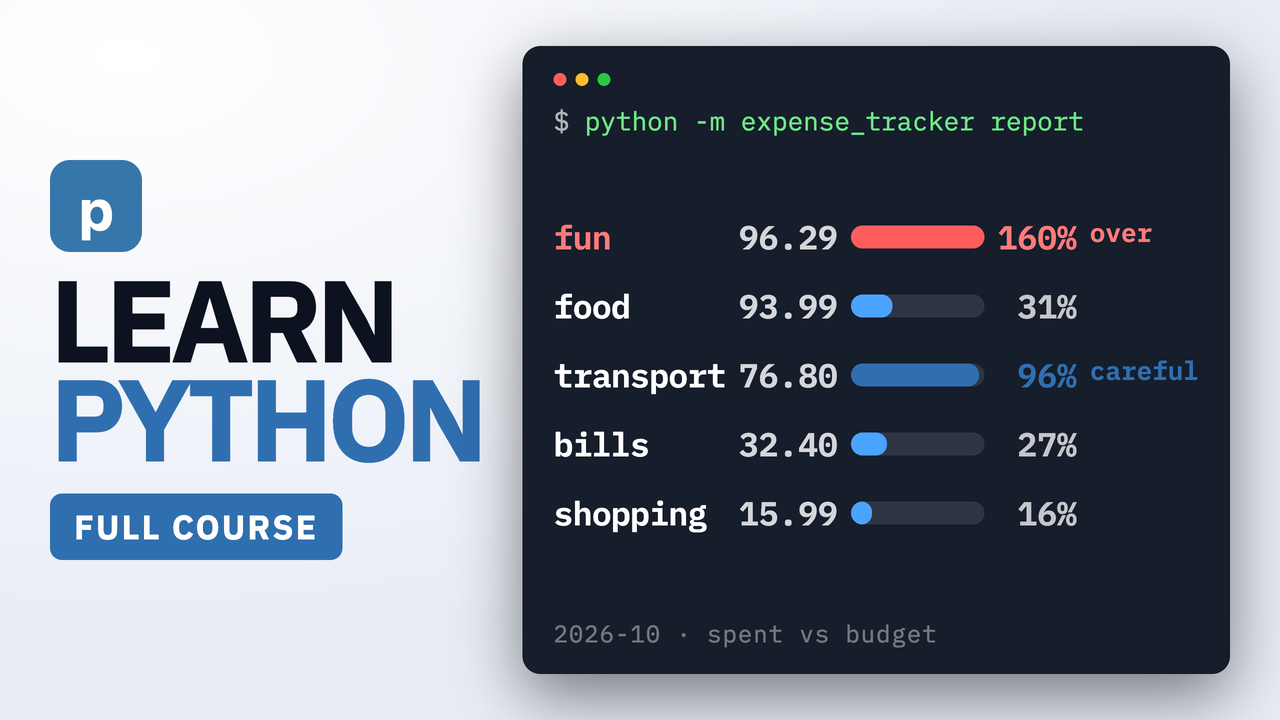
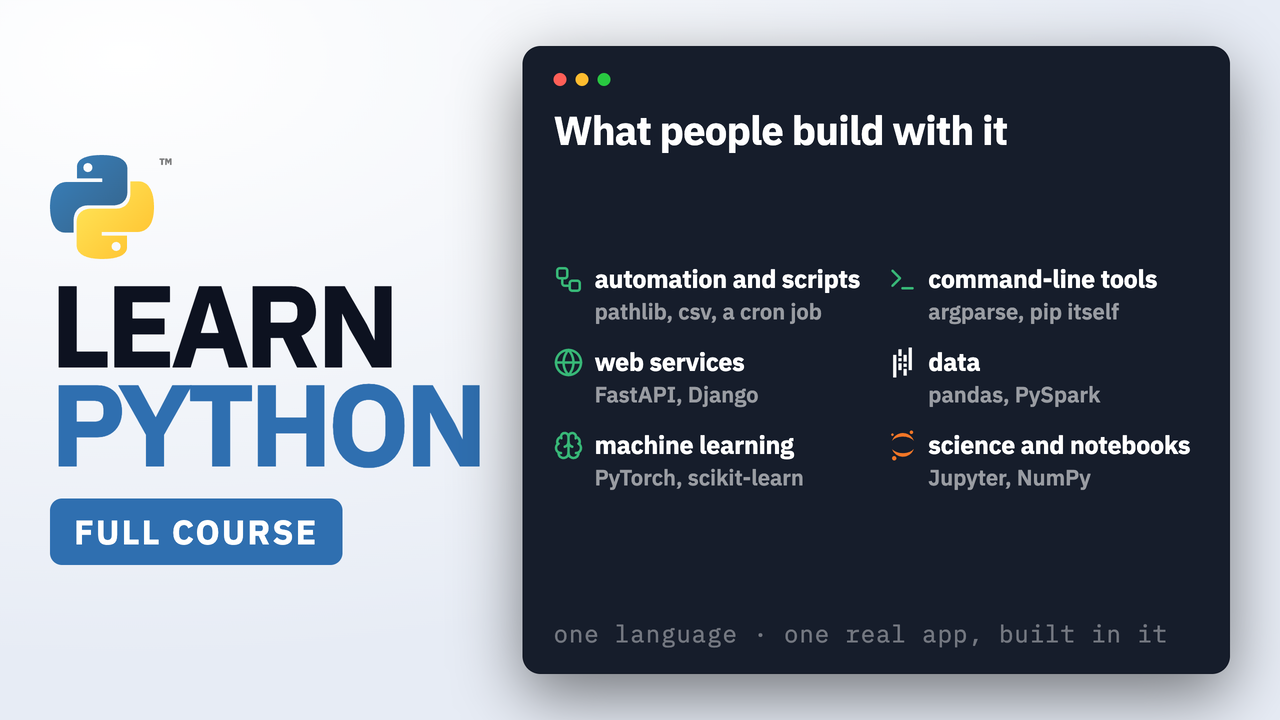
update

diff --git a/output/thumbnails/README.md b/output/thumbnails/README.md
@@ -4,12 +4,86 @@
 A copy of `film-dark.png`. Rebuild any variant with:
 
 ```sh
-npm run thumb:film -- --theme dark --rows fun,food,transport,bills,shopping \
-  --out output/thumbnails/film-dark.png
+npm run thumb:film -- --theme dark --source uses --mark logo --out output/thumbnails/film-dark.png
 ```
 
 Variants kept for comparison: `film-dark.png` (shipped), `film-navy.png`,
-`film-light.png` (stands out in a dark feed, but blue reads softer than yellow).
+`film-light.png` (stands out in a dark feed, but blue reads softer than yellow),
+`film-glyph.png` (the permission-free mark, below), `film-repl.png` and
+`film-report.png` (the other sources, below).
+
+## The mark: the real Python logo, with its TM
+
+The cover carries the genuine PSF two-snake logo, vendored unaltered at
+[`public/vendor/python-logo-notext.svg`](../../public/vendor/python-logo-notext.svg) and
+accompanied by the ™ the PSF's policy asks for (theme-aware, so it is actually visible on the
+light variant too).
+
+**This is a trademark question, and it is not fully settled by anything in this repo.** The PSF
+Trademark Usage Policy allows non-commercial promotion of Python and nominative use — "stating
+accurately that software is written in the Python programming language … is always allowed" —
+but it also says "any other commercial uses require prior written permission from PSF."
+
+A monetised YouTube channel is a commercial use. So:
+
+- The logo here is unaltered, carries its ™, and is used nominatively to name the language the
+  course teaches. The course's identity is the GraphL wordmark and the FULL COURSE badge, and
+  the cover does not suggest the PSF produced or endorsed it.
+- **If the video is monetised, ask the PSF Trademarks Committee first.** The full reasoning and
+  the exact policy quotations are in
+  [`public/vendor/NOTICE-python-logo.txt`](../../public/vendor/NOTICE-python-logo.txt).
+- If permission is not sought or not granted, rebuild with the repo's own mark:
+
+  ```sh
+  npm run thumb:film -- --mark glyph
+  ```
+
+  which draws `>>>`, the REPL prompt — the most recognisable thing on a Python screen, owned by
+  nobody. That is `film-glyph.png`, kept ready for exactly this reason.
+
+Note that the sister repos answer differently, and correctly so. The data-science repo carries
+the real **pandas** logo outright, because pandas publishes it under BSD-3-Clause — a copyright
+licence that grants the use. The Spark repo carries **no** project mark at all, because the ASF
+permits a third-party project logo essentially only as a hyperlink to its own site. Copyright
+and trademark are different questions and every project answers for itself; do not copy any of
+these three decisions across without reading that project's policy.
+
+## The three sources, all real
+
+`--source uses` (default, shipped) renders the course's own scene. The six use cases, their
+subtitles and their icons are read out of `src/scenes/intro/index.ts` through the same
+`scripts/registry.mjs` the content checks use — so the cover shows **the course's list, not a
+retyped one**: edit the scene and the thumbnail follows. If that scene ever stops having a
+group with id `uses`, the render fails rather than falling back to something invented.
+
+The icons are the app's too: lucide's geometry (ISC) read straight out of
+`node_modules/lucide-react` for `workflow`, `terminal`, `globe` and `brain`, and graphl-flow's
+own bundled brand paths for `pandas` and `jupyter`. Those two keep their brand colours — white
+and Jupyter orange — exactly as the scene renders them; the rest take the group's `store` tone.
+
+This card has **no `$` command line**, because there is no command behind it. An earlier draft
+had one, which would have been the first invented thing on any of these three covers.
+
+`--source repl` renders `spine/hold/02-decimal/session.txt` — §3.2, the `0.1 + 0.2` float
+surprise and the `Decimal` that fixes it. It is the stronger *hook* of the two at feed size: a
+long red `0.30000000000000004` reads at 168px where six small rows become texture. Kept as
+`film-repl.png` if the use-case grid underperforms.
+
+One line of that session is left out: `Decimal(0.1)` prints 55 digits, which cannot be set in
+poster type without shrinking the card to nothing. Lines whose output exceeds `MAX_OUT` are
+**omitted rather than truncated**, so nothing shown is ever altered — the cover just shows fewer
+steps than the session ran. If the float surprise or its fix were ever among the omitted lines,
+the render fails instead of quietly dropping the point of the card.
+
+`--source report` renders `spine/ship/04-the-finished-app/session.txt`: the real
+`expense-tracker report`, spent against budget per category, with `fun` 160% over.
+
+## The colours are the engine's
+
+The use-case icons, the REPL's prompts, the surprise and the fix all take their colours from
+`@graphlearning/graphl-flow`'s own tone palette — the same six the scenes use — copied into
+`TONE` in `scripts/thumb-film.mjs`: `store` `#37b877` for the prompts and the correct answer,
+`consume` `#f0656f` for the float result, `neutral` for echoed output.
 
 ## Why not `npm run thumb` (the shell's `graphl-thumb`)
 
@@ -18,6 +92,9 @@ That template is a **per-course** poster: 58% of a scene plus a text panel. A sc
 YouTube mobile feed actually renders — which is the only size that decides a thumbnail.
 `scripts/thumb-film.mjs` uses poster grammar instead: few elements, enormous type, one
 focal object. Every change was checked by downscaling to 168px, not by looking at 1280px.
+At that size the shipped cover keeps LEARN / PYTHON, the logo, the badge and "What people build
+with it"; the six rows below become texture. That is the trade this cover makes — breadth over a
+single hook — and `film-repl.png` is the alternative if the grid underperforms.
 
 ## Why not the generated samples
 
@@ -37,8 +114,9 @@ weights retention far above CTR.
 
 ## Where the numbers come from
 
-`thumb-film.mjs` parses the report out of `spine/ship/04-the-finished-app/session.txt` —
-the same replayed output the scenes use — and fails if a requested row is not in it. So the
+`thumb-film.mjs` parses everything out of a spine `session.txt` — the same replayed output the
+scenes use — and fails if a requested row, or the float surprise, is not in it. So the
 thumbnail cannot drift from the recorded course, and nothing on it is typed by hand. The
-renderer also asserts no element overflows its box, so a clipped label fails the build
-instead of shipping.
+renderer also asserts no element overflows its box, so a clipped label fails the build instead
+of shipping, and the headline splits one word per line and shrinks against the left column's
+max width rather than running off the canvas.
